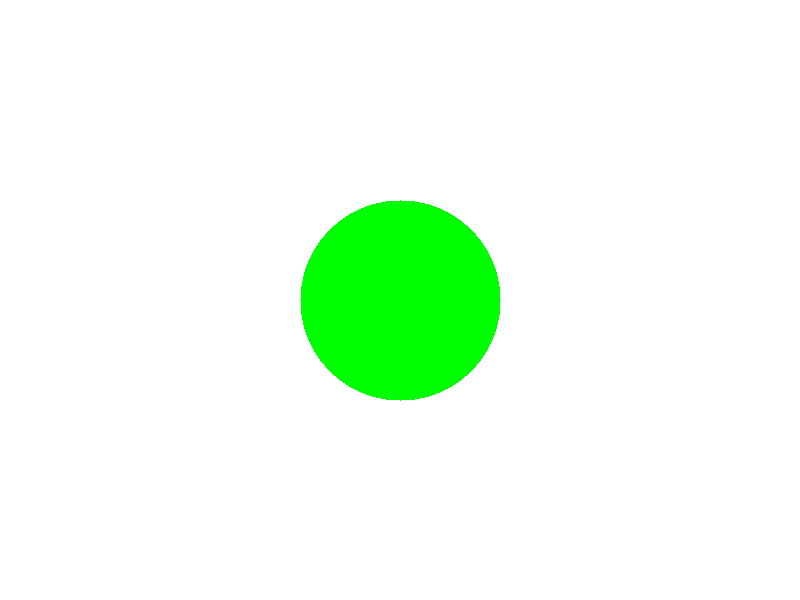
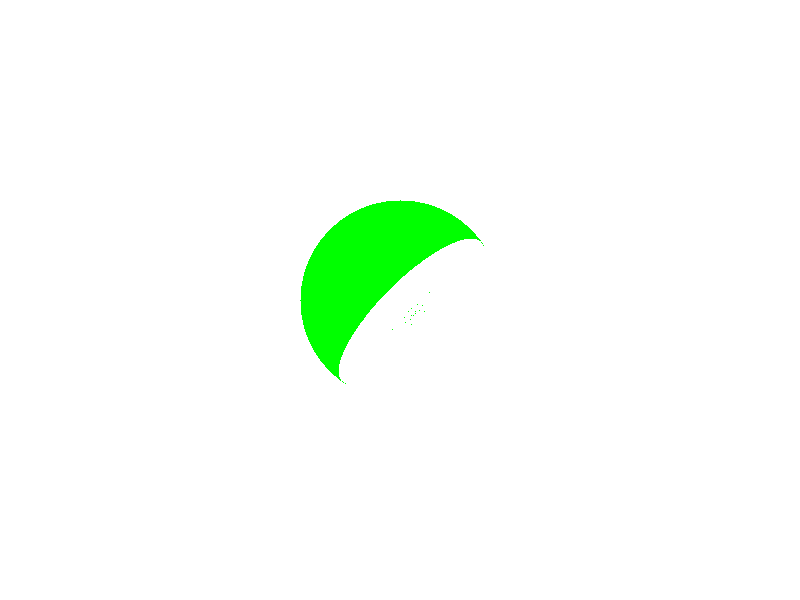
SceneObject, Sphere, Ray, Light objects & struct created Compute if pixel is lighted or not Using list of lights and objects in scene

Changed region(s): [[0.4062, 0.39, 0.625, 0.69]]

diff --git a/TP2/Synthese_TP2/Synthese_TP2.cpp b/TP2/Synthese_TP2/Synthese_TP2.cpp
@@ -1,14 +1,7 @@
 
 #include <iostream>
 
-#include <glm/glm.hpp>
-#include <glm/gtx/intersect.hpp>
-#include <SFML/Graphics.hpp>
-
 #include "Synthese_TP2.h"
-#include "Ray.h"
-#include "SceneObject.h"
-#include "Sphere.h"
 
 using namespace std;
 
@@ -22,21 +15,27 @@ int main()
     sf::Image image;
     image.create(width, height, sf::Color(255, 255, 255, 10));
 
-    // Sphere data
-    glm::vec3 center(0, 0, 10);
-    glm::float32 radius = 100;
+
 
     // Ray direction
     glm::vec3 direction(0, 0, 1); //normalized value !
 
-    // Light position
-    glm::vec3 light(0, 10, 10);
 
-    // List oh objects in our scene
-    std::vector<SceneObject*> objectsList;
+    std::vector<Light> lightList;
 
-    SceneObject* s = new Sphere(center, radius);
-    objectsList.push_back(s);
+    Light redLight(glm::vec3(400, 400, 200), glm::vec3(1000, 100, 42)); //Red light
+    lightList.push_back(redLight);
+
+
+    // List of objects in our scene
+    std::vector<SceneObject*> objectList;
+
+    SceneObject* s = new Sphere(glm::vec3(0, 0, 10), 100);
+    objectList.push_back(s);
+
+    //SceneObject* s2 = new Sphere(glm::vec3(40, 40, 10), 100);
+    //objectsList.push_back(s2);
+
 
     // Compute pixel color
     for (unsigned int x = 0; x < width; ++x) {
@@ -49,24 +48,27 @@ int main()
             glm::vec3 position;
             glm::vec3 normal;
 
-            // If false, no intersection found
-            if (glm::intersectRaySphere(pixel.m_origin, pixel.m_direction, center, radius, position, normal)) {
-
-                image.setPixel(x, y, sf::Color::Green);
-
-                //// Compute light intersection
-                //glm::vec3 positionDecalee = position + 0.1f * normal;
-                //glm::vec3 lightDirection = light - position;
-                //glm::normalize(lightDirection);
-                //glm::vec3 secondPosition;
-                //glm::vec3 secondNormal;
-                //if (glm::intersectRaySphere(positionDecalee, lightDirection, center, radius, secondPosition, secondNormal)) {
-                //    image.setPixel(x, y, sf::Color::Green);
-                //}
-                //else {
-                //    image.setPixel(x, y, sf::Color::Yellow);
-                //}
+            // access by reference to avoid copying
+            for (auto& object : objectList) {
             
+                // If false, no intersection found
+                if (object->intersect(pixel, position, normal)) {
+
+                    glm::vec3 positionLight, normalLight;
+
+                    for (auto& light : lightList) {
+                        
+                        Ray toLight = light.getRayFrom(position);
+
+                        for (auto& object2 : objectList) {
+
+                            if (object2->intersect(toLight, positionLight, normalLight)) {
+                                image.setPixel(x, y, sf::Color::Green);
+                            }
+                        }
+                    }
+            
+                }
             }
 
         }

diff --git a/TP2/Synthese_TP2/Synthese_TP2.h b/TP2/Synthese_TP2/Synthese_TP2.h
@@ -1,6 +1,13 @@
 #pragma once
 
+#include <glm/glm.hpp>
+#include <glm/gtx/intersect.hpp>
+#include <SFML/Graphics.hpp>
 
+#include "Ray.h"
+#include "Light.h"
+#include "SceneObject.h"
+#include "Sphere.h"
 
 template <typename T>
 T changeRange(T const& OldValue, T const& OldMin, T const& OldMax, T const& NewMin, T const& NewMax);

diff --git a/TP2/Synthese_TP2/Light.h b/TP2/Synthese_TP2/Light.h
@@ -1,0 +1,16 @@
+#pragma once
+
+#include <glm/glm.hpp>
+
+struct Light
+{
+public:
+	glm::vec3 m_position;
+	glm::vec3 m_color;
+
+	Light(glm::vec3 position, glm::vec3 color) : m_position(position), m_color(color) {}
+
+	Ray getRayFrom(glm::vec3& position) {
+		return Ray(position, (m_position - position) );
+	}
+};

diff --git a/TP2/Synthese_TP2/SceneObject.h b/TP2/Synthese_TP2/SceneObject.h
@@ -3,12 +3,6 @@
 class SceneObject
 {
 public:
-	SceneObject();
-
 	virtual bool intersect(Ray r, glm::vec3& position, glm::vec3& normal) = 0;
 
 };
-
-SceneObject::SceneObject()
-{
-}

diff --git a/TP2/Synthese_TP2/Sphere.h b/TP2/Synthese_TP2/Sphere.h
@@ -4,7 +4,7 @@
 
 #include "SceneObject.h"
 
-class Sphere : SceneObject
+class Sphere : public SceneObject
 {
 private:
 	glm::vec3 m_center;
